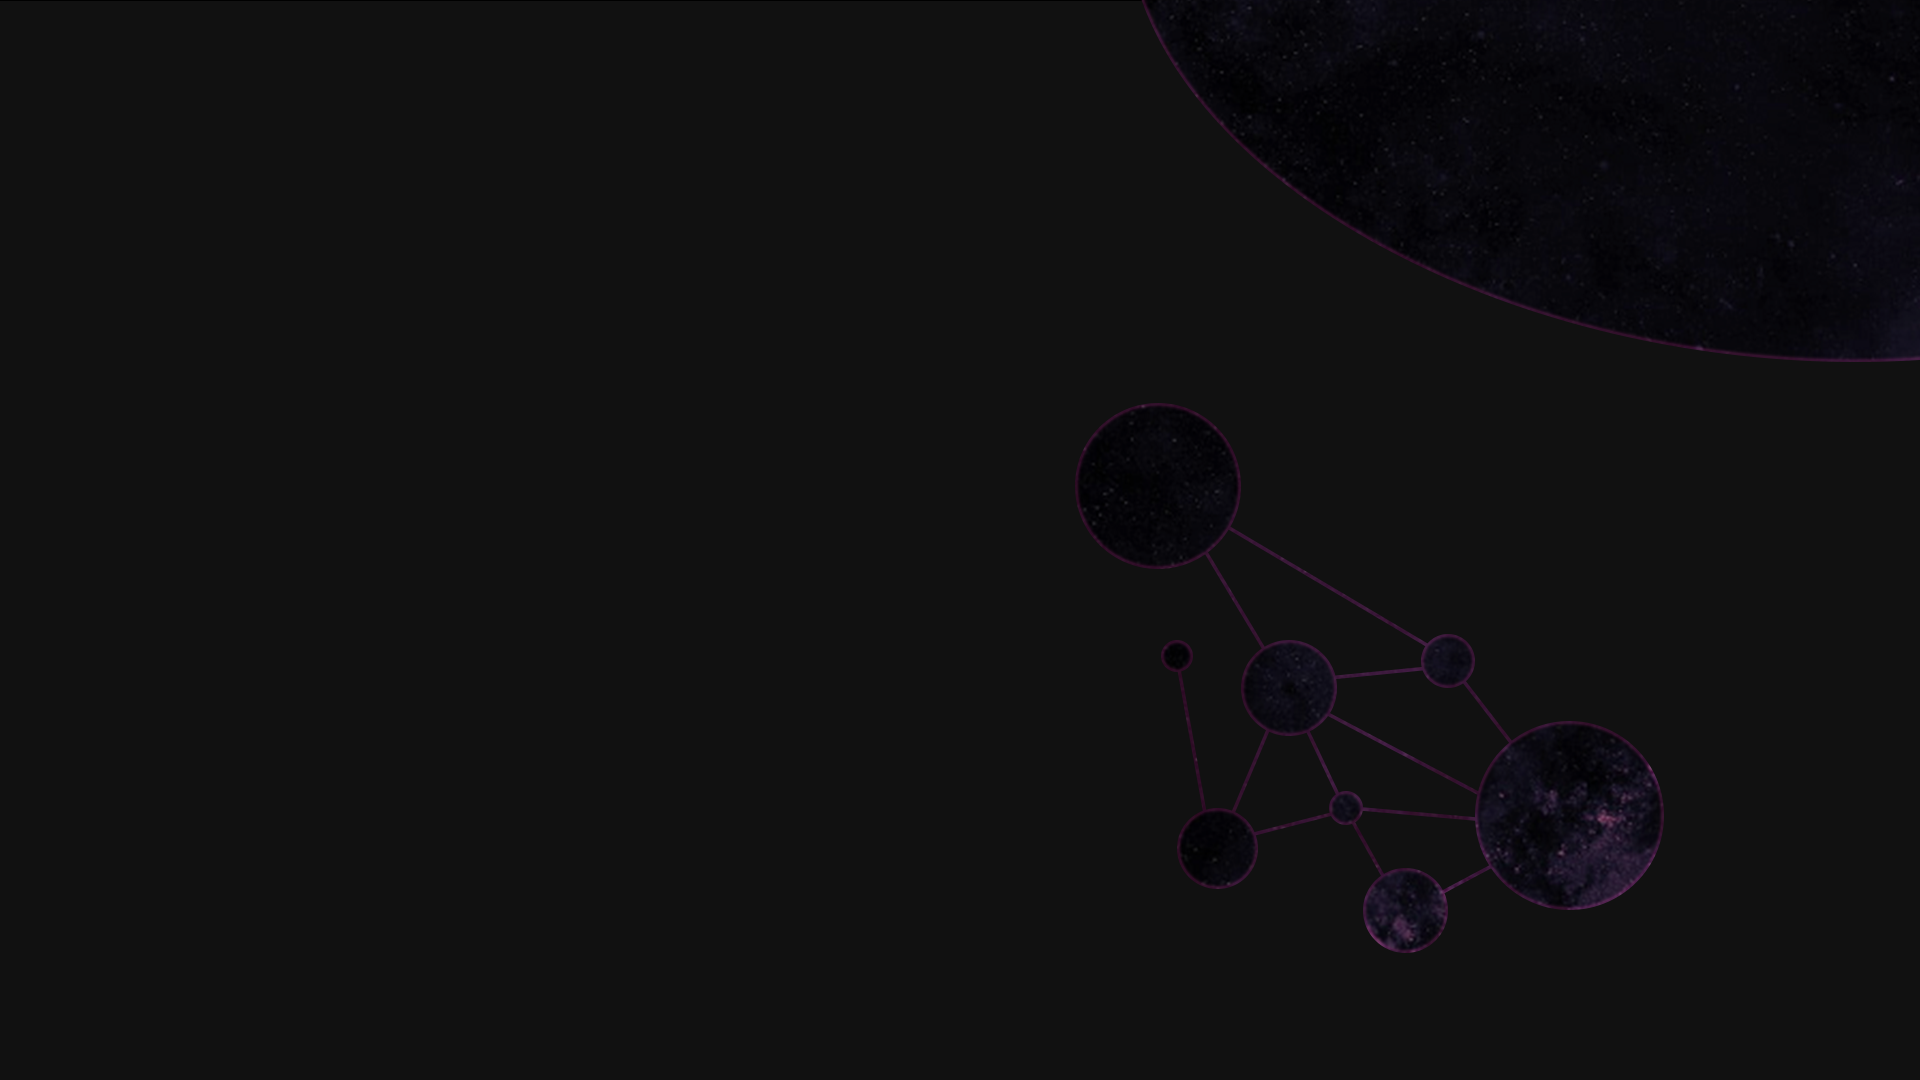
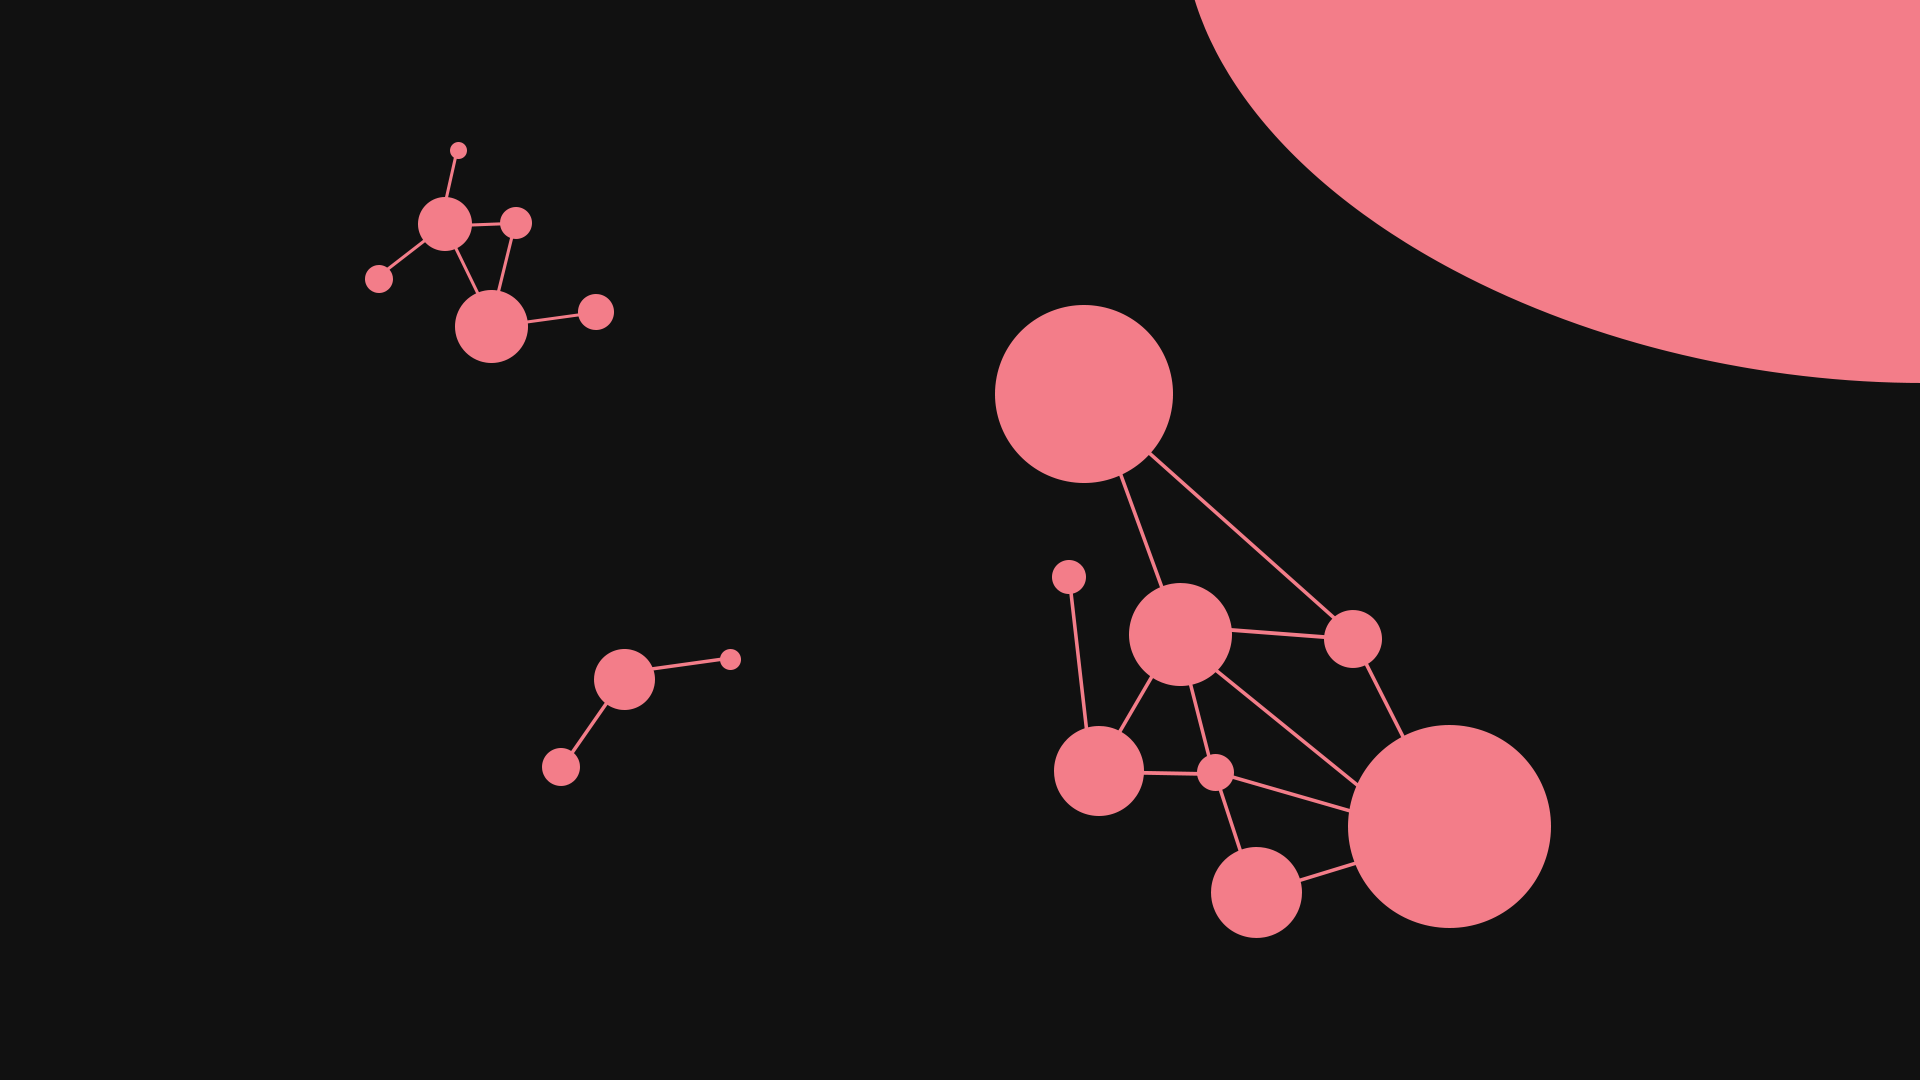
updated landing page

diff --git a/css/style.css b/css/style.css
@@ -151,7 +151,7 @@ nav:hover {
     top: 0;
     width: 100%;
     height: 100%;
-    background-image: url(../img/bg-cyber.png);   
+    background-image: url(../img/bg-cyber3.png);   
     background-repeat: no-repeat;
     background-position: center;
     background-size: cover;
@@ -1231,7 +1231,7 @@ textarea {
     }
 
     .landing-container::after {
-        background-position: center;
+        background-image: url(../img/bg-cyber-mobile.png); 
     }
 
     .landing-button {

diff --git a/index.html b/index.html
@@ -550,7 +550,7 @@
                             </div>
                             <div class="project-front-container">
                                 <div class="project-top">
-                                    <p>Jewellery page</p>
+                                    <p>Landing page</p>
                                     <img class="project-img" src='./img/jubileo.jpg'>
                                 </div>
                                 <div class="project-bottom">
